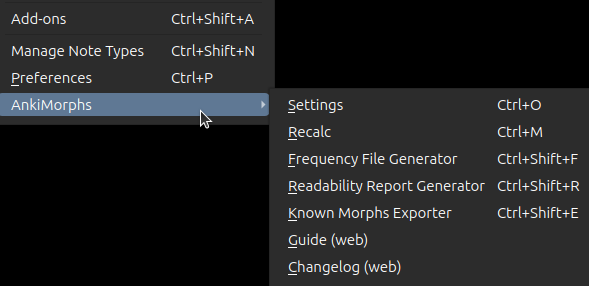
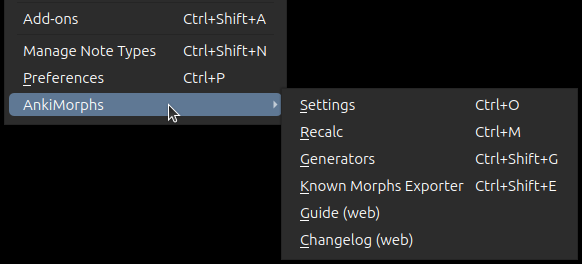
docs updated
- generators section
- prioritizing/frequency file section

Changed region(s): [[0.0, 0.0, 1.0, 1.0]]

diff --git a/docs/src/user_guide/usage/generators.md b/docs/src/user_guide/usage/generators.md
@@ -1,29 +1,41 @@
 # Generators
 
-AnkiMorphs provides two generators:
 
-- [Frequency File Generator](generators/frequency-file-generator.md)
-- [Readability Report Generator](generators/readability-report-generator.md)
+![generators-window.png](../../img/generators-window.png)
 
-They both have some options in common:
+AnkiMorphs provides the following three generators:
 
-- [File formats](#file-formats)
-- [Selecting input directory](#selecting-input-directory)
-- [Preprocess options](#preprocess)
+- [Readability Report Generator](#readability-report-generator)  
+  A report over how well you know the text in the specified files
+
+- [Frequency File Generator](#frequency-file-generator)  
+  A file that lists all the found morphs sorted by their frequency  
+
+- [Study Plan Generator](#study-plan-generator)  
+  A combination of frequency files in the order you specify
+
+<br>
+
+To use the generators you have to follow these three steps:
+1. [Load input files](#loading-files)
+2. [Select processing options](#processing-files)
+3. [Select output options](#generator-output)
+
+## Loading Files
 
 ### File Formats
 
 ![file_formats.png](../../img/file_formats.png)
 
 These are the files that the generators are (mostly) able to read. Any files that don't have these extensions will be
-ignored by the generators.
+ignored.
 
-### Selecting Input Directory
+### Selecting Root Folder
 
 ![generator-select-input.png](../../img/generator-select-input.png)
 
 Any files that match your selected file formats and are in this folder or sub-folders,
-will be used by the generator.
+will be used by the generators.
 
 Take, for example, the following folders and their files:
 
@@ -42,7 +54,7 @@ english_texts/
 
 ```
 
-If you were to select the `books` folder and you checked the .txt file format, then the generator would
+If you were to select the `books` folder, and you checked the `.txt` file format, then the generator would
 only use the `The Wise Man's Fear.txt` file.
 
 If you were to select the folder `english_texts` and you checked all the file format options, then the generator would
@@ -52,9 +64,125 @@ use the files:
 - `episode_1.srt`
 - `The_Fellowship_of_the_Ring.vtt`
 
+### After Loading
+
+![generator_loaded_files.png](../../img/generator_loaded_files.png)
+
+The files that will be used by the generators will be shown in the `File` column in the tables below, and the generator
+buttons are now enabled. Next, you need to specify how the generators should [process the files](#processing-files).
+
+## Processing Files
+
+### Morphemizer
+
+![generator-morphemizer.png](../../img/generator-morphemizer.png)
+
+This is the tool AnkiMorphs uses to split text into morphs.
+
 ### Preprocess
 
 ![generator-parsing-options.png](../../img/generator-preprocess-options.png)
 
 These options are equivalent to those found in [`Preprocess` settings](../setup/settings/preprocess.md).
 
+## Generator Output
+
+When clicking the `Generate Freuency File` or `Generate Study Plan` buttons you will be presented with these options:
+
+![generator-output-dialog.png](../../img/generator-output-dialog.png)
+
+The output file is automatically set to be in the [[anki profile folder](../../glossary.md#profile-folder)]`/frequency-files/` folder. Any frequency
+files or study plans that are placed in this folder can be selected in the 
+[note filter: morph priority settings](../setup/settings/note-filter.md#morph-priority).
+
+You can name the file whatever you want as long as it has a `.csv` extension, e.g. `ja-freq.csv`.
+
+### Minimum Occurrence
+
+Limit the morphs to only those that occur at least `x` many times.
+
+### Comprehension Target
+
+Limit the morphs to only those that occur below the specified comprehension percent. Let's take these morphs as an example:
+
+![comprehension-example.png](../../img/comprehension-example.png)
+
+If your target is `90%`, then we get:
+
+$$$ \large \text{Occurrence Sum Threshold} = 0.9 \times 400 = 360 $$$
+
+The morphs in the fifth and sixth rows would therefore not be included since they have an occurrence sum greater than 360.
+
+<br>
+<br>
+
+# Readability Report Generator
+
+The Readability Report Generator can give you insights into how much of the text in a file you are able to read. It produces two
+different outputs, one with pure numerical values, and one with percentages.
+
+![readability-report-generator-numerical.png](../../img/readability-report-generator-numerical.png)
+![readability-report-generator-percentages.png](../../img/readability-report-generator-percentages.png)
+
+You can click on the column headers to sort the rows based on those values. In the pictures above the rows
+are sorted based on the value in the `File` column.
+
+<br>
+<br>
+
+# Frequency File Generator
+
+The Frequency File Generator creates a frequency file that is described in the [prioritizing section](../setup/prioritizing.md).
+
+<br>
+<br>
+
+# Study Plan Generator
+
+![study-guide-example.png](../../img/study-guide-example.png)
+
+Using a study plan is convenient if you want to learn morphs from source materials in a specific sequence,
+e.g., TV show episodes, book series, etc.
+
+A study plan differs from a regular frequency file in the following ways:
+- It is first sorted by input files, then morph frequency.
+- It has extra columns:
+    - Learning status
+    - File name
+
+The study plan generator basically does this:
+1. Creates a frequency file for each input file
+2. Combines those frequency files
+3. Removes duplicate morphs
+
+The resulting file can be used in the [note filter: morph priority settings](../setup/settings/note-filter.md#morph-priority)
+like any other frequency file.
+
+> **Note**: that only the data from the `Morph-lemma`, and `Morph-inflection` columns are read 
+by AnkiMorphs, so you can delete or modify the other columns if you want.
+
+
+### Changing The File Order
+
+The study plan uses the same file order as that displayed in the currently opened table at the bottom of the window.
+This provides more flexibility than relying solely on the alphanumeric values of the file names.
+
+If I have this table open as I click the `Generate Study Plan` button:
+
+![study-plan-order-example-1.png](../../img/study-plan-order-example-1.png)
+
+Then the study plan will have the files in this order:
+1. `Jigokuraku-03.srt`
+2. `Jigokuraku-01.srt`
+3. `Jigokuraku-02.srt`
+
+> **Note**: the `Total` "file" is artificial and won't be included, nor is its data used in any calculations.
+
+With this table open:
+
+![study-plan-order-example-2.png](../../img/study-plan-order-example-2.png)
+
+Then the order will be this:
+1. `Jigokuraku-03.srt`
+2. `Jigokuraku-02.srt`
+3. `Jigokuraku-01.srt`

diff --git a/docs/src/user_guide/setup/prioritizing.md b/docs/src/user_guide/setup/prioritizing.md
@@ -7,15 +7,16 @@ AnkiMorphs is a general purpose language learning tool, therefore, it has to be 
 can do this in two ways, either have AnkiMorphs calculate the morph frequencies found in your
 cards (`Collection frequency`), or you can specify a custom .csv file that contains that information.
 
-## frequency.csv
+## Custom Frequency Files
 
 ![frequency-csv.png](../../img/frequency-csv.png)
 
-Your custom .csv file needs to follow this format:
+The custom .csv files follows this format:
 
-- The first row is assumed to contain column headers and will be ignored.
-- Rows 2 and down are assumed to contain morphs in descending order of frequency, i.e., the morph on the second row is
-  the most frequently occurring morph, the morph on the third row is the second most frequently occurring, etc.
+- **The first row** contains column headers (AnkiMorphs skips reading this line).
+- **The second row and down** contain morphs in descending order of frequency.
+- **The first column** contains morph-lemmas, **the second column** contains morph-inflections (this is done to prevent [morph collisions](#morph-collision)).
+- **All other columns** are optional and are not read by AnkiMorphs.
 
 Keep the files to 50K rows or fewer, any rows after that are ignored.
 The [scoring algorithm](../usage/recalc.md#scoring-algorithm) needs to have a max limit on morph priorities to make it
@@ -24,13 +25,26 @@ practical, hence this 50K limit.
 Any .csv file located in the folder [[anki profile folder](../glossary.md#profile-folder)]`/frequency-files/` is
 available for selection in [note filters: morph priority](../setup/settings/note-filter.md#morph-priority).
 
+### Morph Collision
+
+Inflected morphs can be identical even if they are derived from different lemmas (base), e.g.:
+
+```
+Lemma : Inflection
+有る    ある
+或る    ある
+```
+
+To prevent misinterpretation of the inflected morphs, we also store the lemmas.
+
 ### Creating Your Own frequency.csv
 
-You can use the [Frequency File Generator](../usage/generators/frequency-file-generator.md) to generate your own
-frequency.csv
-file.
+You can use the [Frequency File Generator](../usage/generators.md#frequency-file-generator) or the 
+[Study Plan Generator](../usage/generators.md#study-plan-generator) to generate your own custom frequency file.
 
 ### Downloadable Frequency Files
+
+> **Note**: These files do not contain the optional `Occurrence` column, but they still work just fine.
 
 <details>
   <summary>Catalan</summary>

diff --git a/docs/src/user_guide/setup/setting-known-morphs.md b/docs/src/user_guide/setup/setting-known-morphs.md
@@ -1,15 +1,13 @@
 # Setting Known Morphs
 
-AnkiMorphs determines which morphs you know based on the cards it reads. One problem with this approach is that
-information can get lost when you delete cards. To overcome this problem, you can store known morphs in .csv files in the
+AnkiMorphs determines which morphs you know by analyzing the cards you specify. However, if you delete any of those
+cards then it can lead to loss of information. To address this issue, you can store known morphs in .csv files in the
 [[anki profile](../glossary.md#profile-folder)]`/known-morphs` folder.
 
 ![known-morphs-folder.png](../../img/known-morphs-folder.png)
 
-Any .csv file that has the same format as those created by
-the [frequency file generator](../usage/generators/frequency-file-generator.md), and
-the [known morphs exporter](../usage/known-morphs-exporter.md) and is placed in
-this folder can be read during [Recalc](../usage/recalc.md) and saved to the database.
+Any .csv file that has the [frequency file format](prioritizing.md#custom-frequency-files) (like those produces by the
+[Known Morphs Exporter](../usage/known-morphs-exporter.md)), and is placed within this folder, can be read during [Recalc](../usage/recalc.md) and saved to the database.
 
-You can activate this feature by selecting `Read files in 'known-morphs' folder and register morphs as known` 
-in [recalc settings](../setup/settings/recalc.md).
+You can activate this feature by selecting `Read files in 'known-morphs' folder and register morphs as known`
+in the [Recalc settings](../setup/settings/recalc.md).

diff --git a/docs/src/user_guide/setup/settings/note-filter.md b/docs/src/user_guide/setup/settings/note-filter.md
@@ -89,23 +89,19 @@ In my case the field I'm interested in is `Japanese`
 
 ## Morphemizer
 
-This is the tool AnkiMorphs uses to split text into morphs. AnkiMorphs comes bundled with two morphemizers:
-
-- `AnkiMorphs: Japanese`
-- `AnkiMorphs: Languages w/ Spaces`
-
-Any [installed spaCy models](../../installation/installing-spacy.md) will also show up in this list.
+This is the tool AnkiMorphs uses to split text into morphs. See the [installation section](../../installation.md) for 
+how to add morphemizers. 
 
 ![morphemizer-selection.png](../../../img/morphemizer-selection.png)
 
 > **Note**: `AnkiMorphs: Languages w/ Spaces` is bad, it simply splits all text on whitespace. It's much better to use
-> spaCy models if you are able to install them.
+> other morphemizers if you are able to install them.
 
 ## Morph Priority
 
 The calculated [score](../../usage/recalc.md#scoring-algorithm) of the card, and as a result, the sorting of the card, depends on
 the [priority](../prioritizing.md) you give the morphs. You can either set the priorities to be `Collection frequency` (how often the morphs occur in your card collection), or you could use
-a [custom .csv file](../prioritizing.md#frequencycsv) that specifies the priorities of the morphs.
+a [custom frequency file](../prioritizing.md#custom-frequency-files) that specifies the priorities of the morphs.
 
 AnkiMorphs automatically finds .csv files placed
 in [[anki profile folder](../../glossary.md#profile-folder)]`/frequency-files/`.

diff --git a/docs/src/SUMMARY.md b/docs/src/SUMMARY.md
@@ -5,7 +5,6 @@
 
 # User Guide
 
-
 - [Glossary](user_guide/glossary.md)
 - [Installation](user_guide/installation.md)
   - [Installing spaCy](user_guide/installation/installing-spacy.md)
@@ -28,8 +27,6 @@
   - [Reviewing Cards](user_guide/usage/reviewing-cards.md)
   - [Browser](user_guide/usage/browser.md)
   - [Generators](user_guide/usage/generators.md)
-    - [Frequency File Generator](user_guide/usage/generators/frequency-file-generator.md)
-    - [Readability Report Generator](user_guide/usage/generators/readability-report-generator.md)
   - [Exporting Known Morphs](user_guide/usage/known-morphs-exporter.md)
 - [Tips & Tricks](user_guide/setup/tips-and-tricks.md)
 - [Known Problems](user_guide/known-problems.md)

diff --git a/docs/src/user_guide/installation/changes-to-anki.md b/docs/src/user_guide/installation/changes-to-anki.md
@@ -260,6 +260,5 @@ You can find info about the options here:
 
 * [Settings](../setup/settings.md)
 * [Recalc](../usage/recalc.md)
-* [Frequency File Generator](../usage/generators/frequency-file-generator.md)
-* [Readability Report Generator](../usage/generators/readability-report-generator.md)
+* [Generators](../usage/generators.md)
 * [Known Morphs Exporter](../usage/known-morphs-exporter.md)
